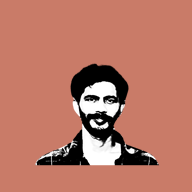
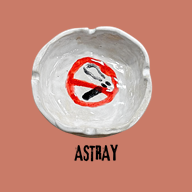
Add files via upload

diff --git a/admin.html b/admin.html
@@ -1,1 +1,1 @@
-<!doctype html><html lang="en"><head><meta charset="utf-8"><meta name="viewport" content="width=device-width,initial-scale=1"><meta name="theme-color" content="#c97b68"><link rel="manifest" href="manifest.webmanifest"><link rel="apple-touch-icon" href="astray-icon-192.png"><title>Author desk — Astray</title><link rel="stylesheet" href="styles.css?v=17"></head><body class="admin-body"><header class="site-header"><a class="brand" href="index.html"><span class="brand-mark"><img src="akib.png" alt="Akib portrait"></span><span>ASTRAY<small>PRIVATE AUTHOR DESK</small></span></a><nav><a href="index.html">[ VIEW JOURNAL ]</a><button id="sign-out" class="logout-button" type="button" hidden>[ LOG OUT ]</button></nav></header><main class="admin-main"><section id="sign-in" class="sign-in card"><p class="eyebrow">[ PRIVATE AUTHOR AREA ]</p><h1>Your writing desk</h1><p class="muted">Sign in.</p><form id="login-form" onsubmit="return false"><label>Email<input name="email" type="email" required autocomplete="username"></label><label>Password<input name="password" type="password" required autocomplete="current-password"></label><button class="button" type="submit">[ SIGN IN ]</button><p class="form-message" aria-live="polite"></p></form></section><section id="dashboard" hidden><div class="section-heading"><div><p class="eyebrow">[ PRIVATE AUTHOR AREA ]</p><h1>Your writing desk</h1></div></div><div class="admin-grid"><form id="post-form" class="card"><h2 id="editor-title">New page</h2><input name="id" type="hidden"><label>Title<input name="title" required maxlength="180"></label><label>Short introduction<input name="excerpt" maxlength="280"></label><label>Section<select name="category"><option>Journal</option><option>Writing</option><option>Poetry</option><option>Photography</option></select></label><label>Your words<textarea name="body" rows="12" required></textarea></label><label>Photograph<input name="photo" type="file" accept="image/*"></label><label class="check"><input name="published" type="checkbox"> Publish this page for everyone</label><div class="actions"><button class="button" type="submit">[ SAVE PAGE ]</button><button id="reset-form" class="text-button" type="button">CLEAR</button></div><p class="form-message" aria-live="polite"></p></form><aside class="card"><h2>Your pages</h2><div id="admin-posts"></div></aside></div></section></main><footer><span>ASTRAY · AUTHOR DESK</span></footer><script type="module" src="app.js?v=10"></script></body></html>
+<!doctype html><html lang="en"><head><meta charset="utf-8"><meta name="viewport" content="width=device-width,initial-scale=1"><meta name="theme-color" content="#c97b68"><link rel="manifest" href="manifest.webmanifest"><link rel="apple-touch-icon" href="astray-icon-192.png"><title>Author desk — Astray</title><link rel="stylesheet" href="styles.css?v=18"></head><body class="admin-body"><header class="site-header"><a class="brand" href="index.html"><span class="brand-mark"><img src="astray-logo.png" alt="Astray logo"></span><span>ASTRAY<small>PRIVATE AUTHOR DESK</small></span></a><nav><a href="index.html">[ VIEW JOURNAL ]</a><button id="sign-out" class="logout-button" type="button" hidden>[ LOG OUT ]</button></nav></header><main class="admin-main"><section id="sign-in" class="sign-in card"><p class="eyebrow">[ PRIVATE AUTHOR AREA ]</p><h1>Your writing desk</h1><p class="muted">Sign in.</p><form id="login-form" onsubmit="return false"><label>Email<input name="email" type="email" required autocomplete="username"></label><label>Password<input name="password" type="password" required autocomplete="current-password"></label><button class="button" type="submit">[ SIGN IN ]</button><p class="form-message" aria-live="polite"></p></form></section><section id="dashboard" hidden><div class="section-heading"><div><p class="eyebrow">[ PRIVATE AUTHOR AREA ]</p><h1>Your writing desk</h1></div></div><div class="admin-grid"><form id="post-form" class="card"><h2 id="editor-title">New page</h2><input name="id" type="hidden"><label>Title<input name="title" required maxlength="180"></label><label>Short introduction<input name="excerpt" maxlength="280"></label><label>Section<select name="category"><option>Journal</option><option>Writing</option><option>Poetry</option><option>Photography</option></select></label><label>Your words<textarea name="body" rows="12" required></textarea></label><label>Photograph<input name="photo" type="file" accept="image/*"></label><label class="check"><input name="published" type="checkbox"> Publish this page for everyone</label><div class="actions"><button class="button" type="submit">[ SAVE PAGE ]</button><button id="reset-form" class="text-button" type="button">CLEAR</button></div><p class="form-message" aria-live="polite"></p></form><aside class="card"><h2>Your pages</h2><div id="admin-posts"></div></aside></div></section></main><footer><span>ASTRAY · AUTHOR DESK</span></footer><script type="module" src="app.js?v=10"></script></body></html>

diff --git a/styles.css b/styles.css
@@ -1,4 +1,4 @@
-@import url('https://fonts.googleapis.com/css2?family=DM+Mono:wght@400;500&family=IM+Fell+English:ital@0;1&display=swap');
+@import url('https://fonts.googleapis.com/css2?family=DM+Mono:wght@400;500&family=IM+Fell+English:ital@0;1&family=UnifrakturCook:wght@700&display=swap');
 @font-face{font-family:QuietBanglaUnicode;src:url('fancy-bangla-unicode.otf') format('opentype');font-style:normal;font-weight:100 900;font-display:swap;unicode-range:U+0980-09FF}
 @font-face{font-family:QuietBangla;src:url('fancy-bangla.ttf') format('truetype');font-style:normal;font-weight:100 900;font-display:swap;unicode-range:U+0980-09FF}
 :root{--ink:#29251f;--paper:#e8dec7;--paper-light:#f1e9d7;--paper-shadow:#ded2b9;--terracotta:#c97b68;--press-red:#a74e3d;--soft-ink:#605646;--rule:#b1a38b}
@@ -12,7 +12,7 @@ button,input,textarea,select{font:inherit}
 .identity-rail{position:sticky;top:0;align-self:start;height:100vh;min-height:560px;background:var(--terracotta);overflow:hidden}
 .rail-brand{position:absolute;left:13%;top:3.5%;display:flex;flex-direction:column;align-items:flex-start;gap:0;color:var(--ink);text-decoration:none}
 .brand-portrait{display:block;width:clamp(80px,6.2vw,128px);height:clamp(100px,15vh,150px);object-fit:contain;object-position:left center}
-.rail-brand>span{font:700 clamp(20px,2vw,29px)/1 Georgia,'IM Fell English','QuietBanglaUnicode','QuietBangla',serif;letter-spacing:2px}
+.rail-brand>span{font:700 clamp(20px,2vw,29px)/1 'UnifrakturCook','IM Fell English','QuietBanglaUnicode','QuietBangla',serif;letter-spacing:.3px}
 .rail-object{position:absolute;left:50%;display:block;object-fit:contain;transform:translateX(-50%)}
 .rail-hairband{top:26%;width:clamp(105px,10vw,194px);height:clamp(110px,20vh,205px)}
 .rail-bow{top:49%;width:clamp(100px,8.5vw,166px);height:clamp(88px,15vh,150px)}
@@ -68,7 +68,7 @@ button,input,textarea,select{font:inherit}
 /* Private author desk and its sign-out control. */
 .admin-body{min-height:100vh;background:#c8bda5;padding:24px clamp(12px,3vw,42px);color:var(--ink)}
 .admin-body .site-header{max-width:1320px;margin:0 auto;padding:8px 10px 15px;background:transparent;border:0;box-shadow:none}
-.admin-body .brand{display:flex;align-items:center;gap:12px;color:inherit;text-decoration:none;font:700 19px Georgia,serif;letter-spacing:1.5px}
+.admin-body .brand{display:flex;align-items:center;gap:12px;color:inherit;text-decoration:none;font:700 23px 'UnifrakturCook','IM Fell English',Georgia,serif;letter-spacing:.6px}
 .admin-body .brand small{display:block;color:#6e604c;font:8px/1.5 'DM Mono','QuietBanglaUnicode','QuietBangla',monospace;letter-spacing:1.4px}
 .admin-body .brand-mark{display:grid;place-items:center;overflow:hidden;width:42px;height:42px;background:var(--terracotta);color:var(--ink);font:700 20px Georgia,serif}
 .admin-body .brand-mark img{display:block;width:100%;height:100%;object-fit:contain;transform:scale(1.35)}

diff --git a/index.html b/index.html
@@ -8,12 +8,12 @@
   <title>Astray — Personal Archive</title>
   <link rel="manifest" href="manifest.webmanifest">
   <link rel="apple-touch-icon" href="astray-icon-192.png">
-  <link rel="stylesheet" href="styles.css?v=17">
+  <link rel="stylesheet" href="styles.css?v=18">
 </head>
 <body class="journal-page">
   <aside class="identity-rail" aria-label="Astray personal archive">
     <a class="rail-brand" href="index.html" aria-label="Astray home">
-      <img class="brand-portrait" src="akib.png" alt="">
+      <img class="brand-portrait" src="astray-logo.png" alt="">
       <span>ASTRAY</span>
     </a>
     <img class="rail-object rail-hairband" src="hair-band.png" alt="Hairband">

diff --git a/SETUP.md b/SETUP.md
@@ -24,6 +24,6 @@ Only published posts are visible to visitors. Unpublished drafts are private to 
 
 - Edit the words and page structure in index.html.
 - Edit colors and page styling in styles.css. The newspaper palette uses aged sand, charcoal ink, and faded terracotta.
-- Keep akib.png, hair-band.png, ear-ring-bow.png, and ear-ring.png beside index.html. Each supplied transparent image is positioned individually in the left rail on desktop and phone. The image proportions are preserved while the journal column uses the remaining screen width. Do not remove these image files.
+- Keep astray-logo.png, hair-band.png, ear-ring-bow.png, and ear-ring.png beside index.html. The logo replaces the portrait, and “ASTRAY” uses an Old English display font. Keep astray-icon-192.png and astray-icon-512.png beside the manifest so the installed app uses the new logo too. The other layout stays the same.
 - Keep both fancy-bangla-unicode.otf and fancy-bangla.ttf beside styles.css so Bangla text can use the supplied handwriting fonts.
 - Leave config.js unchanged unless you are intentionally connecting a different Supabase project.
